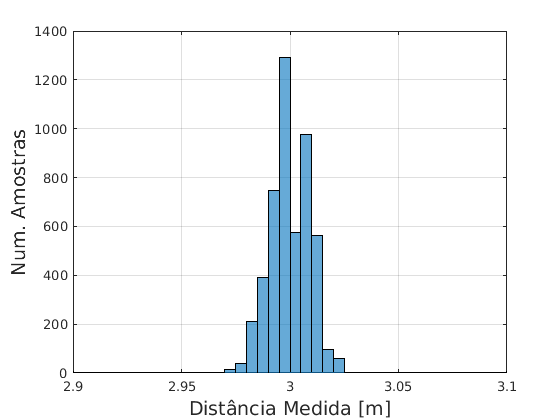
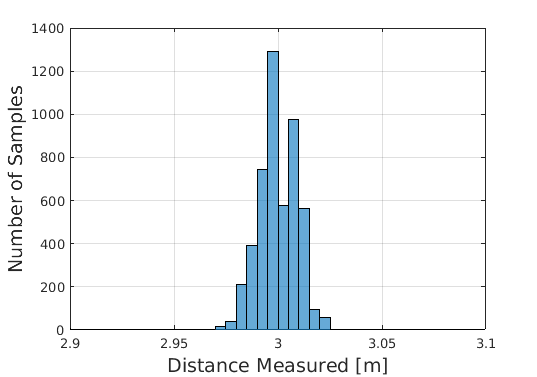
README: use the English figures from the paper and slides
Replaces the Portuguese-labelled diagrams and plots, adds the static
accuracy and simulated-quadrotor results reported in the paper.

Changed region(s): [[0.0, 0.0584, 0.9236, 1.0], [0.0596, 0.7294, 0.149, 0.7878], [0.0596, 0.1751, 0.1192, 0.2042]]

diff --git a/README.md b/README.md
@@ -19,37 +19,64 @@ turns the ranges into a position (least squares, Taylor series or approximate ma
 likelihood), and an extended Kalman filter fuses that position with the vehicle's IMU.
 The system gives a 3D position at about 1 Hz.
 
-It was validated with a ground robot driving in a 2.5 m × 3 m area and with a simulated
-quadrotor in V-REP that uses the measured ALOS error characteristics.
-
-Labels inside the figures are in Portuguese, as in the dissertation they were drawn for.
-"SILA" in them is the Portuguese acronym for ALOS.
+It was validated with static accuracy tests, with simulated quadrotors in V-REP that use
+the measured ALOS error characteristics, and with a ground robot driving in a
+2.5 m × 3 m area.
 
 ## How it works
 
-![System overview: ultrasonic emitters on the walls, a receiver on the robot, and a base computer](figures/system_overview.png)
+![System overview: ultrasonic emitters on the walls, a receiver on the robot, and a ground computer](figures/system_overview.png)
 
-The emitters (*Emissores Ultrassônicos*) are fixed around the room at known positions. The
-base computer sends a synchronization message by RF (purple), each emitter answers with an
-ultrasonic burst, and the receiver on the vehicle (*Receptor Ultrassônico*) times how long
-each burst takes to arrive. Those times of flight are the distances d1…d4 in red. The
-computer requests the measurements (green), solves for the position and sends it back to
-the vehicle (blue).
+The ultrasonic emitters are fixed around the room at known positions. The ground computer
+sends a synchronization message by radio (purple), each emitter answers with an ultrasonic
+burst, and the receiver on the vehicle times how long each burst takes to arrive. Those
+times of flight give the distances d1…d4 in red. The computer requests the measurements
+(green), solves for the position and sends the localization data back to the vehicle
+(blue).
 
-![Timing diagram: the eight emitters fire 70 ms apart inside a 1 s cycle](figures/emitter_timing.png)
+![Messages exchanged between the localization software, the fixed station, the emitters and the receiver](figures/messages.png)
 
-Only one emitter can be heard at a time, so they take turns. After the synchronization
-pulse, emitter 1 fires immediately and each following emitter waits 70 ms more than the
-previous one, which is long enough for the echoes of the last burst to die out. The
-remaining ~440 ms of each one-second cycle is used to collect the measurements over the
-radio link and compute the position. This is what sets the 1 Hz update rate.
+Two radio channels are used: 433 MHz for the synchronization message and 2.4 GHz
+(nRF24L01) for requesting measurements and returning data. All radio traffic goes through
+the fixed station, which is connected to the ground computer.
+
+Only one emitter can be heard at a time, so each of the eight emitters gets its own time
+window after the synchronization message (they fire 70 ms apart). The rest of each
+one-second cycle is used to collect the measurements over the radio link and compute the
+position, which sets the 1 Hz update rate.
+
+![One measurement cycle: ultrasonic measurements, then communication and processing, and the resulting delay](figures/measurement_cycle_delay.png)
+
+A consequence of this cycle is a transport delay: a position describes where the receiver
+was around the middle of the measurement window, but it only becomes available after the
+communication and processing time. The delay is about 0.5 s and the simulation study
+below includes it.
+
+![Navigation architecture: ALOS position at 1 Hz, compass at 1 Hz and IMU at 10 Hz feed a Kalman filter on each robot](figures/navigation_architecture.png)
+
+On the vehicle, the ALOS position (1 Hz) is fused with the digital compass (1 Hz) and the
+IMU (10 Hz) to give position and heading estimates at 10 Hz for the controllers. The same
+ALOS installation can serve several robots, each with its own receiver module.
+
+<img src="figures/kalman_filter.png" width="520" alt="Extended Kalman filter: propagation with IMU data at 10 Hz, update with ALOS and compass at 1 Hz">
+
+The fusion is an extended Kalman filter. The IMU drives the propagation step at 10 Hz and
+the ALOS position and compass heading drive the update step at 1 Hz; the filter also
+estimates the sensor biases.
 
 ## Hardware
 
-| Emitter | Receiver | Fixed station |
+| Emitter (fixed) | Receiver (on the robot) | Fixed station |
 |---|---|---|
-| <img src="figures/emitter_module.jpg" width="260"> | <img src="figures/receiver_module.jpg" width="300"> | <img src="figures/fixed_station.png" width="170"> |
-| Arduino Nano, 433 MHz RF receiver for the synchronization pulse, and a driver stage for several ultrasonic transducers pointing in different directions to widen the beam. | Arduino Nano, the same RF receiver, an nRF24L01 radio to report measurements, and an amplifier/filter stage for the receiving transducers. | Arduino with a 433 MHz transmitter (synchronization) and an nRF24L01 transceiver (measurement requests and replies), connected to the PC over USB. |
+| <img src="figures/emitter_module.jpg" width="200"> | <img src="figures/receiver_module.jpg" width="300"> | <img src="figures/fixed_station.png" width="180"> |
+| <img src="figures/emitter_block_diagram.png" width="280"> | <img src="figures/receiver_block_diagram.png" width="300"> | <img src="figures/fixed_station_block_diagram.png" width="300"> |
+| A microcontroller listens for the 433 MHz synchronization message and triggers a circuit that drives the piezoelectric transducers at 10 V peak-to-peak. Several transducers point in different directions to widen the coverage. | The same 433 MHz receiver for synchronization, an nRF24L01 transceiver to return the measurements, and a conditioning circuit between the piezoelectric transducers and the microcontroller. | A microcontroller with a 433 MHz transmitter and an nRF24L01 transceiver, connected to the ground computer over USB. |
+
+![Receiver signal conditioning: 10x amplification, filter, 10x amplification, comparator](figures/receiver_signal_conditioning.png)
+
+In the receiver, the signal from the piezoelectric transducers is amplified, filtered,
+amplified again and passed through a comparator, so the microcontroller sees a clean
+digital edge when the burst arrives.
 
 All three boards were designed in Proteus; the projects, schematic PDFs and Gerber files
 are in `hardware/`.
@@ -72,59 +99,61 @@ calibration.
 
 ### Range measurements
 
-![Histogram of the distance measured between one emitter and one receiver placed 3 m apart](figures/range_histogram_3m.png)
+<img src="figures/range_histogram_3m.png" width="460" alt="Histogram of the distance measured between one emitter and one receiver placed 3 m apart">
 
-Repeated measurements between one emitter and one receiver placed 3 m apart. The
-horizontal axis is the measured distance in metres and the vertical axis the number of
-samples. The readings stay within a few centimetres of the true distance, which is the
-raw accuracy the position solver starts from.
+Repeated measurements between one emitter and one receiver placed 3 m apart. The readings
+stay within a few centimetres of the true distance, which is the raw accuracy the position
+solver starts from.
 
 ### Static position accuracy
 
-![Layout of the nine evaluation points and the eight emitters](figures/evaluation_points.png)
+| Receivers at ground level | Receivers at 70 cm height |
+|---|---|
+| <img src="figures/static_positions_ground.png" width="420"> | <img src="figures/static_positions_70cm.png" width="420"> |
 
-The receiver was placed at nine known points (*Pontos de avaliação*) inside the area
-covered by the eight emitters (*Módulo emissor* 1–8), at several heights, and the position
-computed by each algorithm was compared with the true one. The logs and plotting scripts
-are in `experiments/Calculo_pos_lms_ts_aml/` and `experiments/Comparacao_LMS_TS/`.
+Two receiver modules (red and blue markers) were placed by hand at a sequence of points
+t1, t2, … while ALOS computed their positions once per second. The accuracy of the
+position estimate in this experiment was around 3 cm.
 
-### Ground robot
+### Simulated quadrotors
 
 | | |
 |---|---|
-| <img src="figures/ground_robot.jpg" width="420"> | <img src="figures/ground_robot_experiment_structure.png" width="520"> |
+| <img src="figures/quadrotor_vrep.png" width="380"> | <img src="figures/quadrotor_sim_structure.png" width="560"> |
 
-The robot is a mecanum-wheel platform carrying an Arduino Mega, an IMU and the ALOS
-receiver module. On board, a Kalman filter combines the ALOS position (1 Hz), the compass
-heading (1 Hz) and the accelerometers and gyros (10 Hz) to estimate position and heading
-at 10 Hz, and a position controller drives the motors towards the next waypoint. The
-waypoint list comes from the PC over an XBee link.
+The complete navigation system was tested in simulation with two quadrotors. V-REP runs
+the quadrotor dynamics and attitude controllers; MATLAB/Simulink runs the position
+controllers, the Kalman filter and a model of ALOS; ROS carries the messages between
+them. The ALOS block reproduces what was measured on the real system: 3 cm accuracy,
+0.5 s transport delay and a 1 Hz rate.
 
-![Ground robot following an hourglass trajectory, estimated with ALOS + IMU](figures/ground_robot_hourglass_trajectory.png)
+<img src="figures/sim_filter_comparison.png" width="520" alt="Actual position, ALOS measurement, Kalman filter output and low-pass filtered estimate over time">
 
-The robot was asked to follow an hourglass-shaped path through seven waypoints (black
-dots; the circles are the acceptance radius around each one). Red circles are the raw
-ALOS positions and the blue line is the Kalman filter estimate that the controller used.
-The robot completes the path, with the estimate following the ALOS fixes and filling in
-between them.
+The curves correspond to the numbered points in the block diagram: the actual position
+(I), the delayed 1 Hz ALOS measurement (II), the Kalman filter output (III) and its
+low-pass filtered version (IV) that feeds the position controllers.
 
-![The same run using only IMU integration](figures/ground_robot_dead_reckoning.png)
+| Quadrotor 1 | Quadrotor 2 |
+|---|---|
+| <img src="figures/sim_step_quadrotor1.png" width="400"> | <img src="figures/sim_step_quadrotor2.png" width="400"> |
 
-For comparison, the blue line here is the position obtained by integrating the IMU alone
-on the same data. It quickly drifts out of the test area, which shows that the
-ALOS fixes are what keep the estimate usable.
+Both quadrotors receive a change in the desired X position at the same time while holding
+Y. The plots show the reference, the actual position and the estimated position. In the
+trajectory-tracking task the RMS error between the Kalman filter output and the true
+value was 0.088 m in X, 0.094 m in Y and 1.88° in heading.
 
-### Simulated quadrotor
+### Ground robot (Master's work)
 
 | | |
 |---|---|
-| <img src="figures/quadrotor_vrep.png" width="420"> | <img src="figures/quadrotor_sim_position_hold.png" width="520"> |
+| <img src="figures/ground_robot.jpg" width="440"> | <img src="figures/ground_robot_hourglass_trajectory.png" width="400"> |
 
-The second case study is a quadrotor simulated in V-REP, with the controllers and the
-Kalman filter running in MATLAB/Simulink. The simulated ALOS measurement reproduces the 1 Hz
-rate and the error characteristics measured on the real system. The plots show the X position, Y
-position and heading over time: the true value, the Kalman estimate, its filtered version
-and the reference, with a lead compensator closing the position loop.
+Beyond the paper, the system was also run on a real mecanum-wheel robot carrying an
+Arduino Mega, an IMU and the ALOS receiver module, with the Kalman filter and position
+controller on board. The robot followed an hourglass-shaped path through seven waypoints
+(black dots; the circles are the acceptance radius around each one). Red circles are the
+raw ALOS positions and the blue line is the Kalman filter estimate used by the
+controller.
 
 ## Videos
 
